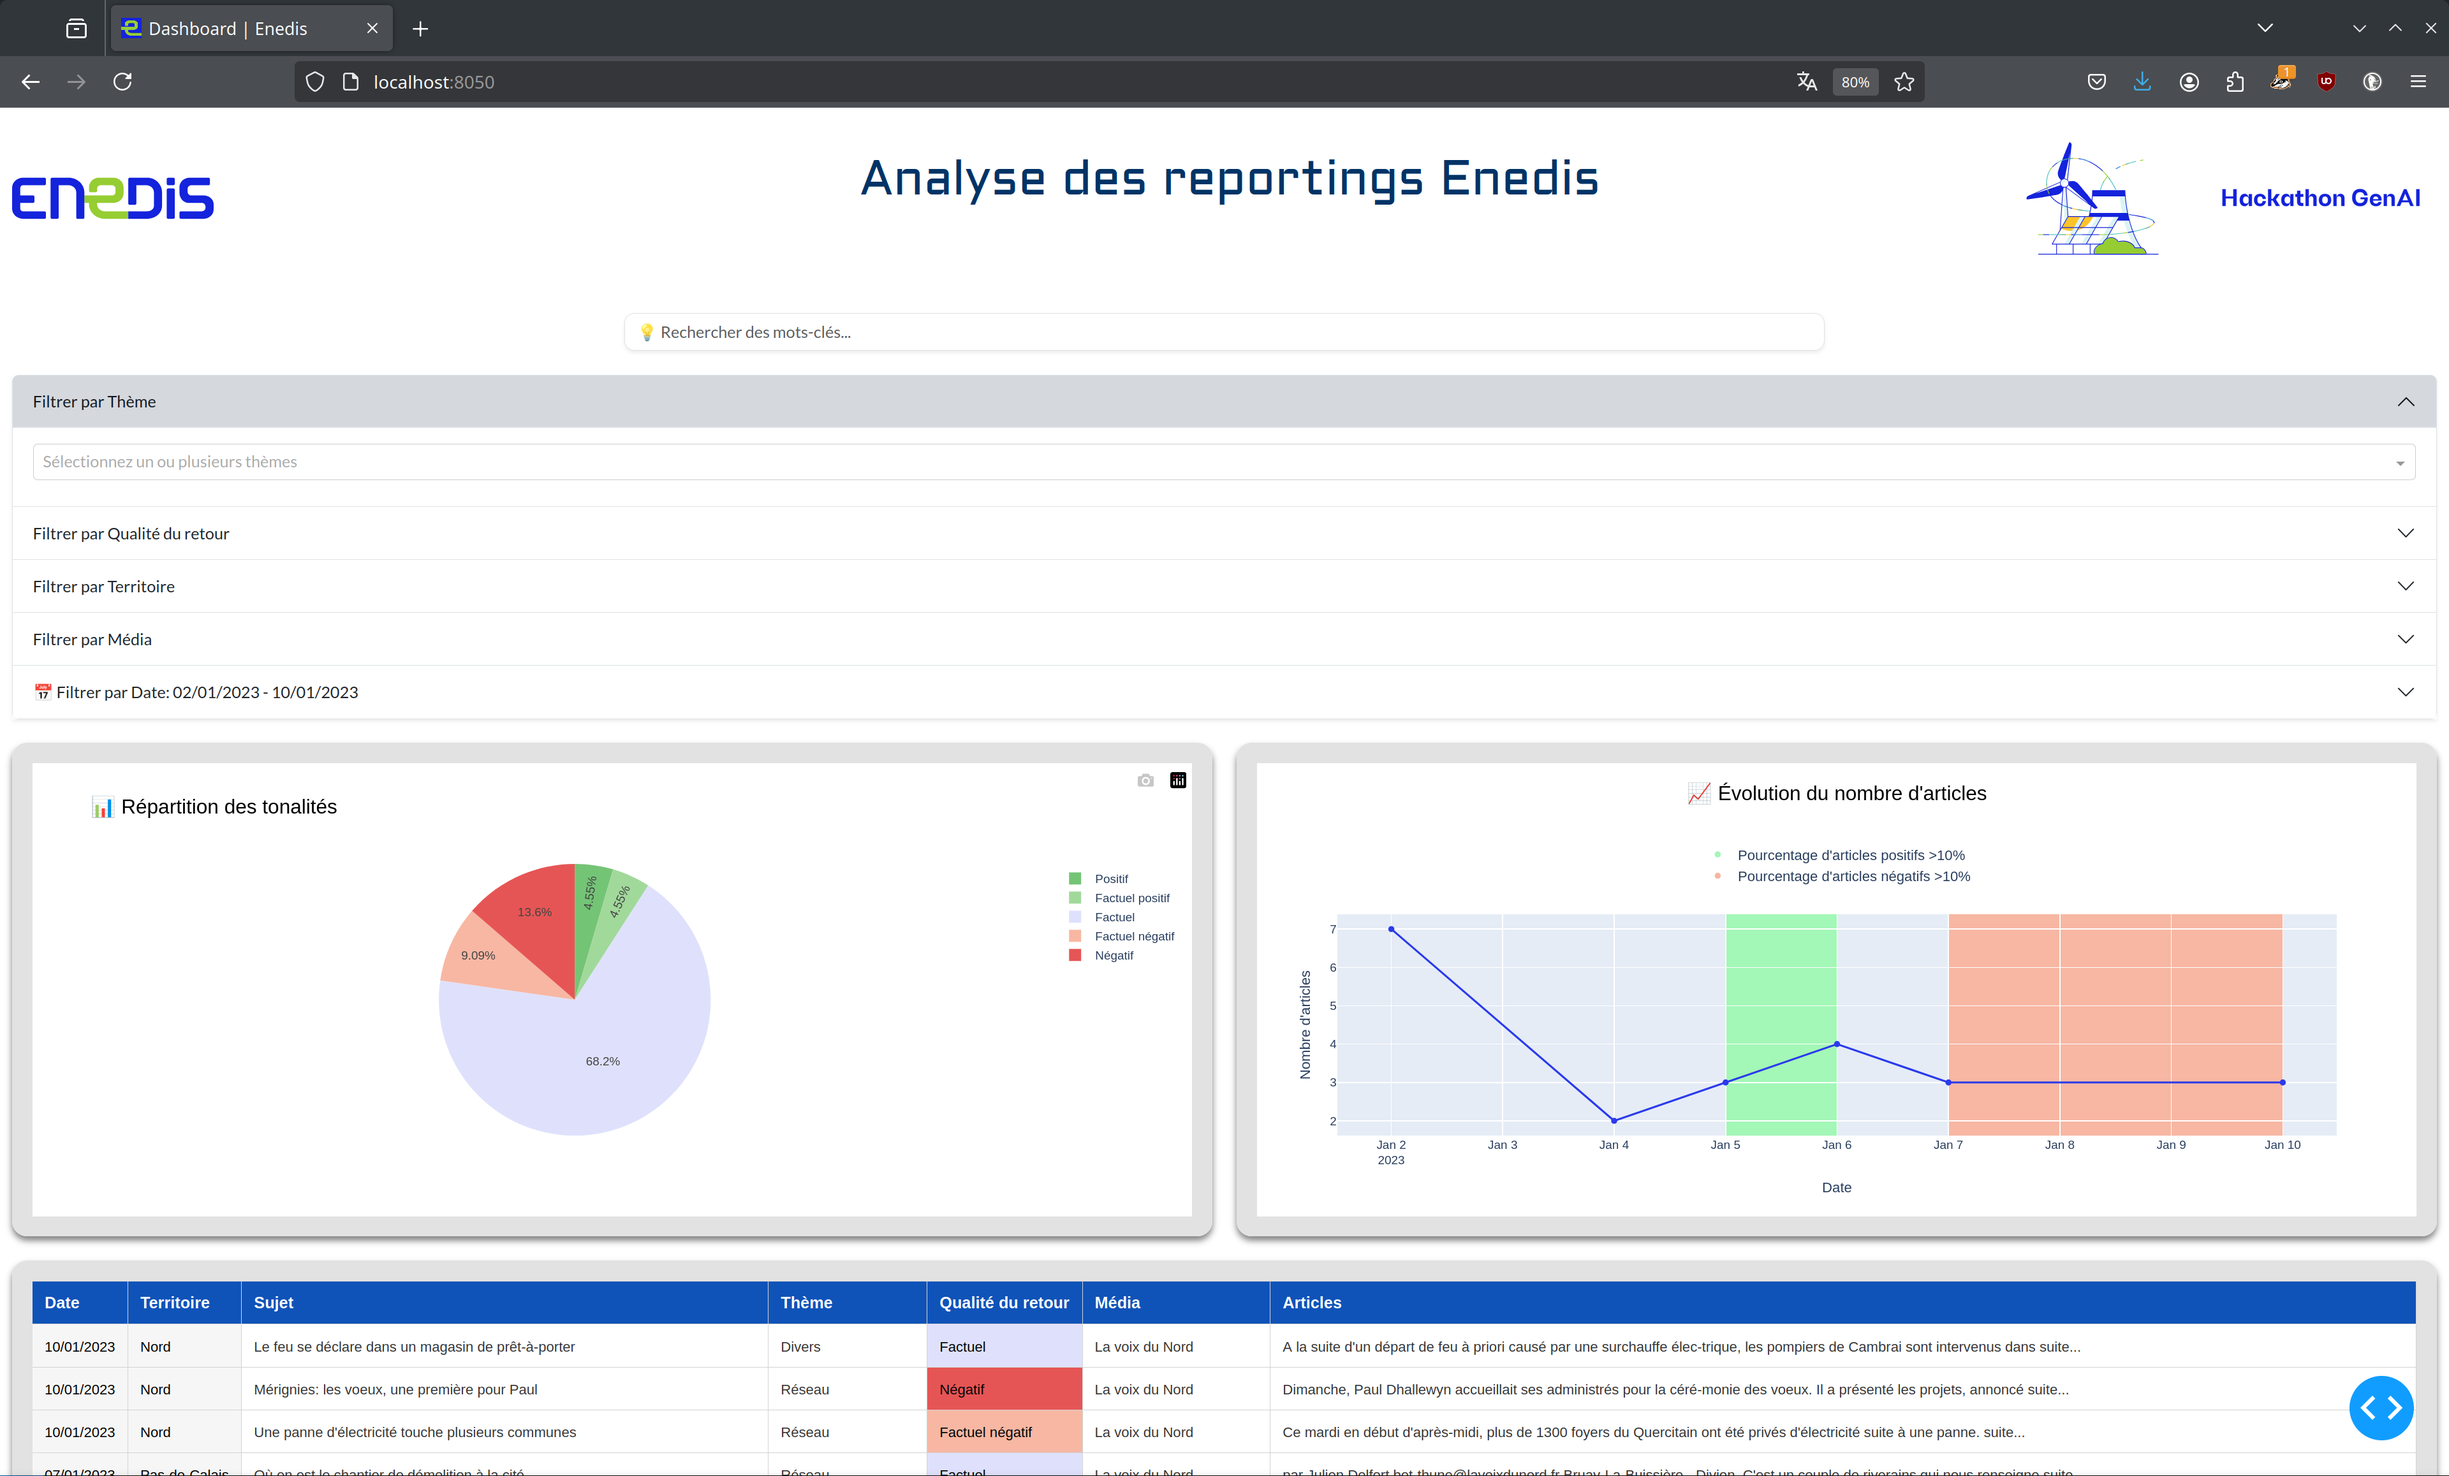
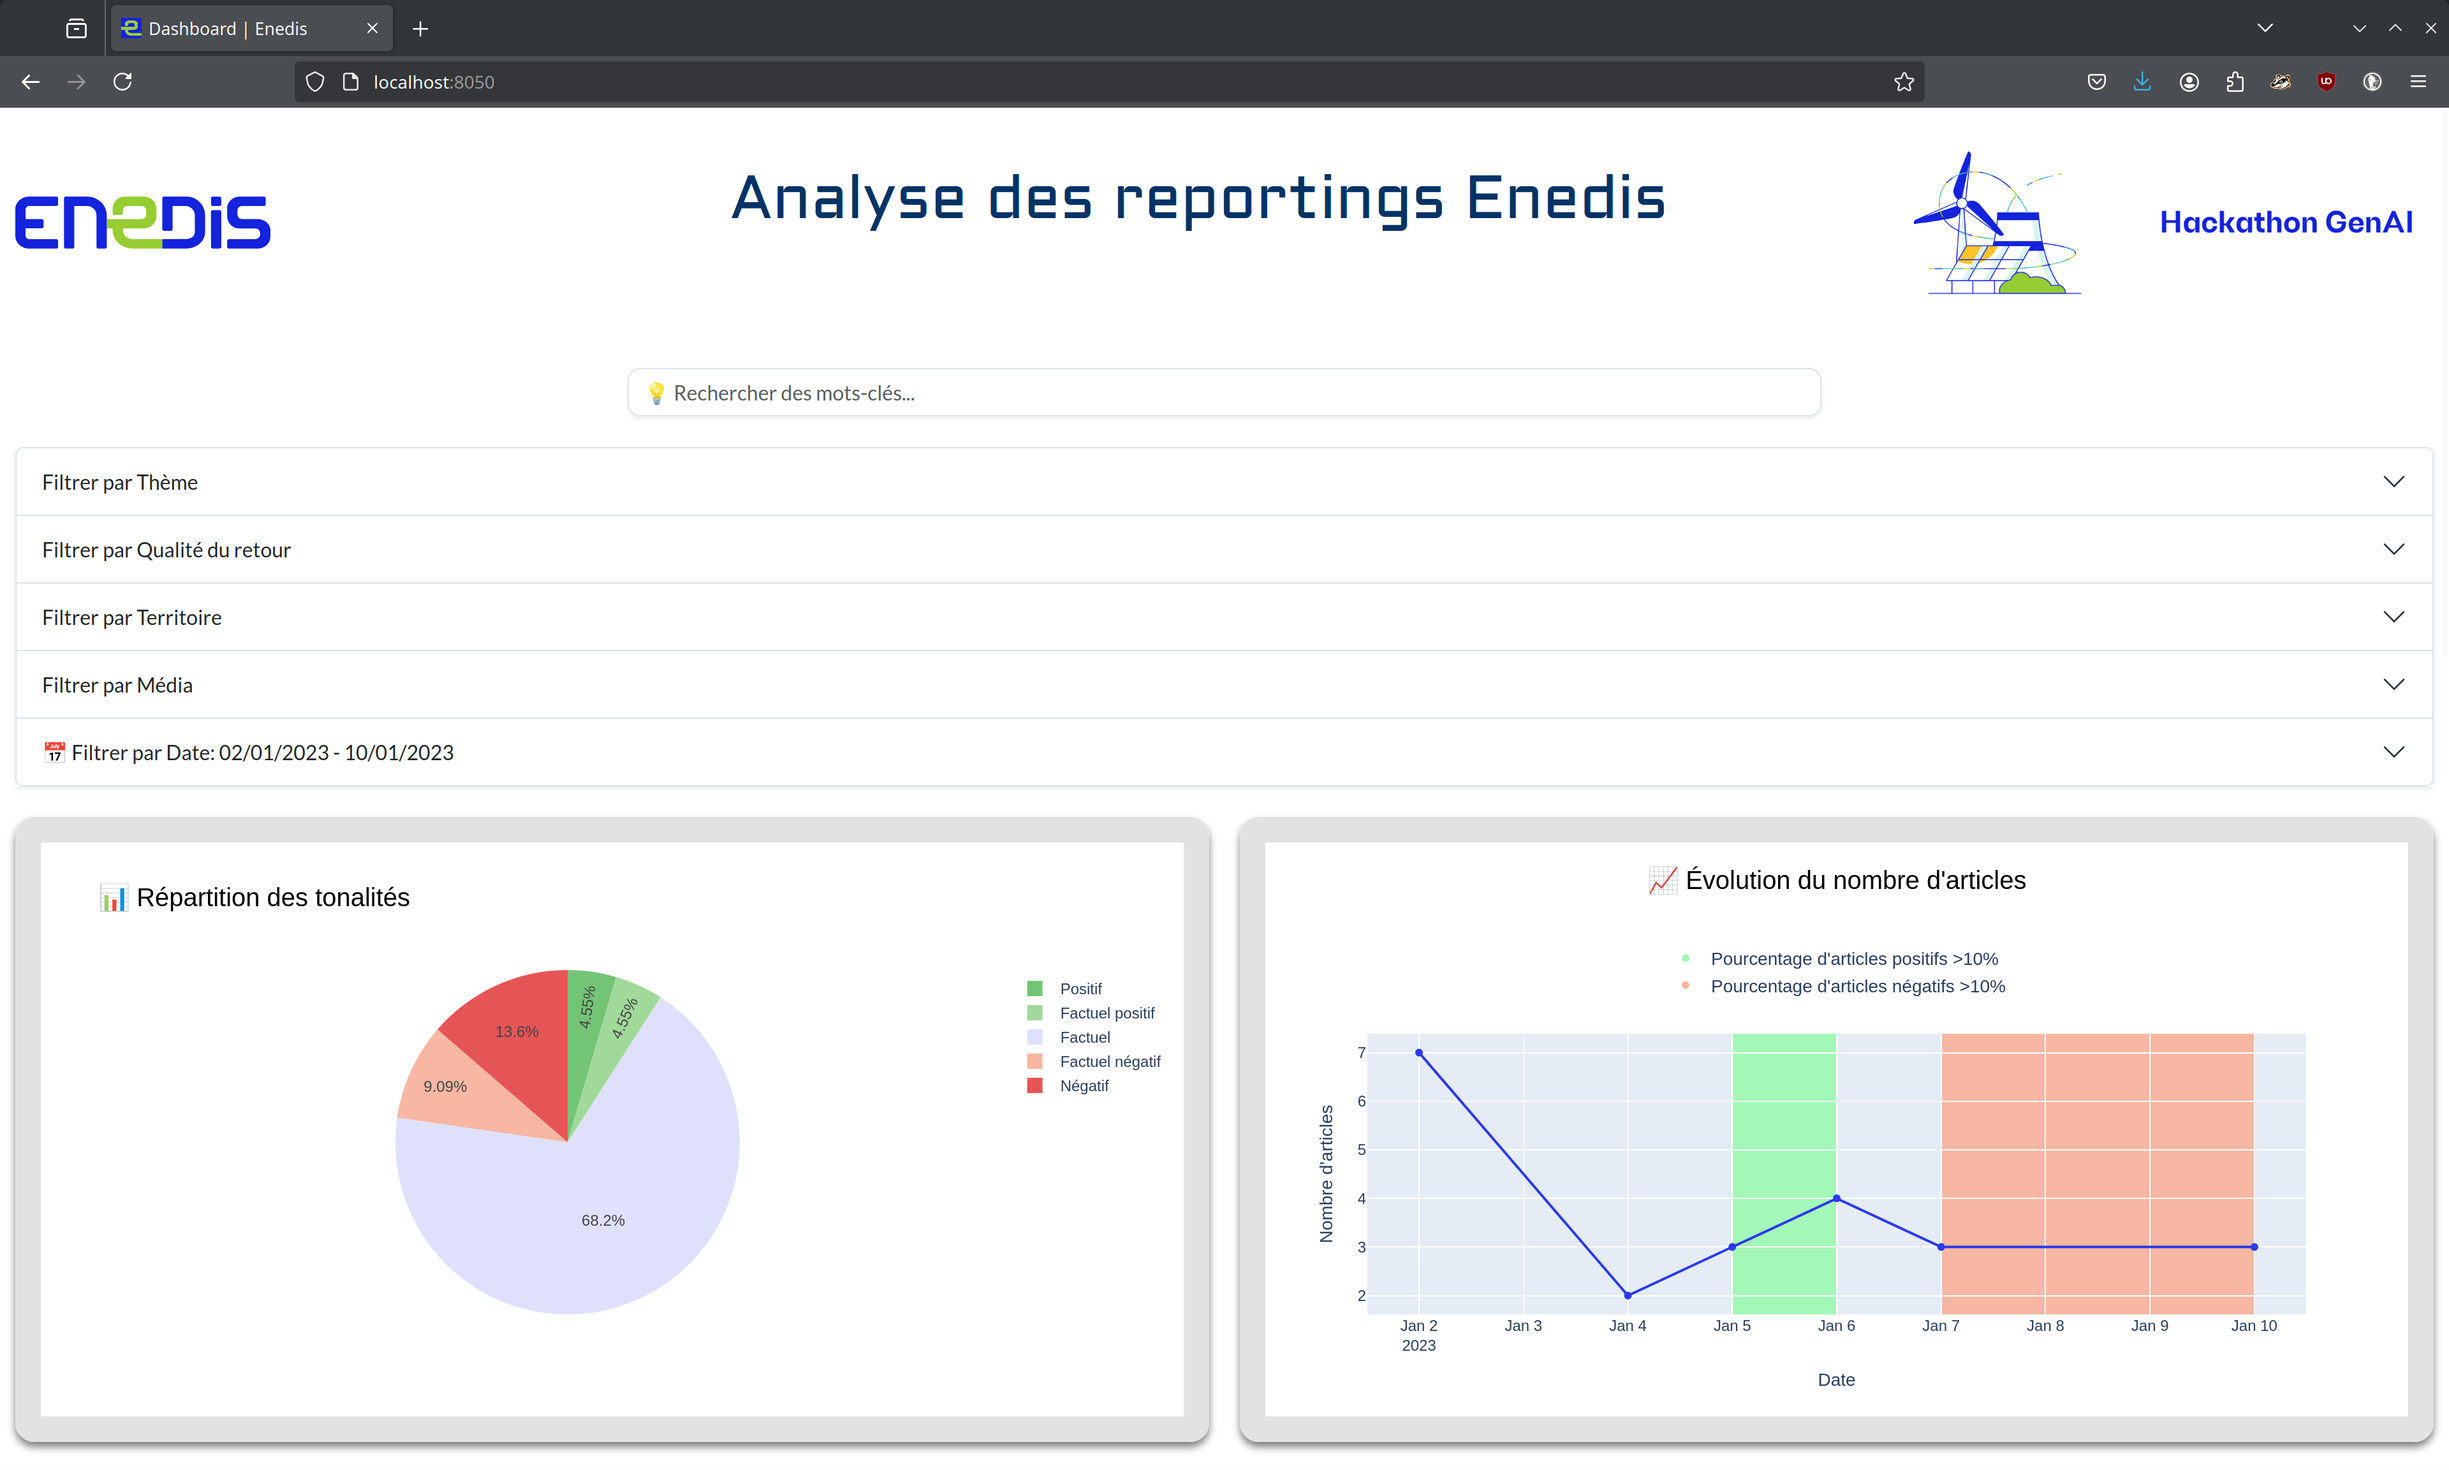
add word cloud graph

diff --git a/data-viz-app/app.py b/data-viz-app/app.py
@@ -7,6 +7,9 @@ from dash.dependencies import Input, Output
 import dash_bootstrap_components as dbc
 from pathlib import Path
 
+import nltk
+from nltk.corpus import stopwords
+
 PROJECT_PATH = Path(__file__).parent.absolute()
 sys.path.append(PROJECT_PATH)
 
@@ -20,9 +23,12 @@ from utils.dash_display import (
     summary_filter,
     create_legend_trace,
     get_timeseries_background_shapes,
+    generate_wordcloud
 )
 import assets.css.styles as myCSS
 
+nltk.download('stopwords')
+FRENCH_STOP_WORDS = set(stopwords.words('french'))
 
 ############################# CONFIG #############################
 
@@ -31,6 +37,9 @@ DASH_APP_PORT = 8050
 
 # highlights periods on the time series when the ratio of positive or negatives articles exceed the threshold
 TIME_SERIES_THRESHOLD = 0.1
+
+# set to True to display the word cloud
+SHOW_WORDCLOUD = True
 
 ##################################################################
 
@@ -56,6 +65,12 @@ dash_app._favicon = ("img/enedis-favicon.ico")
 ## II.a) application Layout ##
 ##############################
 
+# conditional layout for word cloud
+wordcloud_section = dbc.Row([
+    dbc.Col([dcc.Graph(id='word-cloud', style=myCSS.container)], width=6)
+], className='mb-4', justify="center") if SHOW_WORDCLOUD else None
+
+# layout
 dash_app.layout = dbc.Container([
     # Header
     dbc.Row([
@@ -102,20 +117,21 @@ dash_app.layout = dbc.Container([
         dbc.Col(dcc.Graph(id='articles-time-series', style=myCSS.container), width=6)
     ], className='mb-4'),
 
-    html.Div([
-    dash_table.DataTable(
-        id='data-table',
-        columns=[{"name": col, "id": col} for col in df.columns],
-        page_size=myCSS.data_table['page_size'],
-        style_table=myCSS.data_table['style_table'],
-        style_header=myCSS.data_table['style_header'],
-        style_cell=myCSS.data_table['style_cell'],
-        row_selectable=False,
-        cell_selectable=False,
-        style_data_conditional=myCSS.data_table['style_data_conditional'],
-    )
-], style=myCSS.container)
+    wordcloud_section,
 
+    html.Div([
+        dash_table.DataTable(
+            id='data-table',
+            columns=[{"name": col, "id": col} for col in df.columns],
+            page_size=myCSS.data_table['page_size'],
+            style_table=myCSS.data_table['style_table'],
+            style_header=myCSS.data_table['style_header'],
+            style_cell=myCSS.data_table['style_cell'],
+            row_selectable=False,
+            cell_selectable=False,
+            style_data_conditional=myCSS.data_table['style_data_conditional'],
+        )
+    ], style=myCSS.container)
 ], fluid=True)
 
 ############################################
@@ -131,21 +147,24 @@ dash_app.layout = dbc.Container([
         Output('tonalite-title', 'title'),
         Output('territory-title', 'title'),
         Output('media-title', 'title'),
-        Output('date-title', 'title')],
-    [   
+        Output('date-title', 'title'),
+        *([Output('word-cloud', 'figure')] if SHOW_WORDCLOUD else [])
+    ],
+    [
         Input('theme-dropdown', 'value'),
         Input('tonalite-dropdown', 'value'),
         Input('territory-dropdown', 'value'),
         Input('media-dropdown', 'value'),
         Input('date-picker', 'start_date'),
         Input('date-picker', 'end_date'),
-        Input('keywords-search', 'value')]
+        Input('keywords-search', 'value')
+    ]
 )
 def update_visualizations(selected_themes, selected_tonalites, selected_territories, selected_medias, start_date, end_date, keywords):
     
     filtered_df = filter_df(df, (selected_themes, selected_tonalites, selected_territories, selected_medias, start_date, end_date, keywords)).sort_values(by='Date')
 
-    # applied filters summary
+    # filters summary
     theme_summary = summary_filter('Thème', selected_themes)
     tonalite_summary = summary_filter('Qualité du retour', selected_tonalites)
     territory_summary = summary_filter('Territoire', selected_territories)
@@ -208,15 +227,23 @@ def update_visualizations(selected_themes, selected_tonalites, selected_territor
     )
     pie_chart.update_layout(title_font=myCSS.pie_chart['title_font'])
 
-    # table
+    # word cloud
+    if SHOW_WORDCLOUD:
+        text = ' '.join(filtered_df['Sujet'].dropna().tolist() + filtered_df['Articles'].dropna().tolist())
+        wordcloud = generate_wordcloud(text, style=myCSS.wordcloud, stopwords=FRENCH_STOP_WORDS)
+
+    # Table data
     formated_date_df = filtered_df.reset_index().sort_values(by='Date', ascending=False)
     formated_date_df['Date'] = formated_date_df['Date'].dt.strftime('%d/%m/%Y')
-    table_data = (formated_date_df.to_dict('records'))
+    table_data = formated_date_df.to_dict('records')
 
-    return pie_chart, time_series, table_data, theme_summary, tonalite_summary, territory_summary, media_summary, date_summary
+    if SHOW_WORDCLOUD:
+        return pie_chart, time_series, table_data, theme_summary, tonalite_summary, territory_summary, media_summary, date_summary, wordcloud
+    else:
+        return pie_chart, time_series, table_data, theme_summary, tonalite_summary, territory_summary, media_summary, date_summary
 
 ###################
 ## II.c) run app ##
 ###################
 if __name__ == '__main__':
-    dash_app.run(debug=True, host=DASH_APP_URL, port=DASH_APP_PORT)
+    dash_app.run(debug=False, host=DASH_APP_URL, port=DASH_APP_PORT)

diff --git a/data-viz-app/utils/dash_display.py b/data-viz-app/utils/dash_display.py
@@ -5,6 +5,9 @@ import plotly.express as px
 from dash import dcc
 import dash_bootstrap_components as dbc
 
+from wordcloud import WordCloud
+import plotly.graph_objects as go
+
 
 def create_accordion_item(df, title, id, multi=True, style=None, ordered_values=None):
     options = df[title].unique()
@@ -134,3 +137,34 @@ def get_timeseries_background_shapes(df, values_categories, window='2D', thresho
             shapes.extend([create_rectangle_shape(start, end, color) for start, end in intervals])
             
     return shapes
+
+
+def generate_wordcloud(text, style, stopwords):
+    # create word cloud
+    wordcloud = WordCloud(
+        width=style['width'], 
+        height=style['height'], 
+        background_color=style['backgroundColor'],
+        stopwords=stopwords,
+        max_words=100,
+        prefer_horizontal=0.9,
+    ).generate(text)
+
+    # convert word cloud to np.array
+    wordcloud_array = wordcloud.to_array()
+
+    # transform it into a plotly figure
+    fig = go.Figure()
+
+    fig.add_trace(go.Image(z=wordcloud_array, hoverinfo='skip'))
+
+    fig.update_layout(
+        title=style['title'],
+        xaxis=dict(visible=False, scaleanchor='y'),
+        yaxis=dict(visible=False, scaleanchor='x'),
+        margin=dict(l=0, r=0, t=40, b=0), 
+        paper_bgcolor='white',
+        plot_bgcolor='rgba(0,0,0,0)',
+    )
+
+    return fig

diff --git a/data-viz-app/assets/css/styles.py b/data-viz-app/assets/css/styles.py
@@ -80,6 +80,22 @@ time_series = {
     }
 }
 
+wordcloud = {
+    'title': {
+        'text': '☁ Nuage de mots',
+        'font': {
+            'family': 'Arial',
+            'size': 20,
+            'color': 'black',
+        },
+        'x': 0.5,
+        'pad': {'t': 20},
+    },
+    'width': 1000,
+    'height': 500,
+    'backgroundColor': 'white',
+}
+
 data_table = {
     'page_size': 20,
 

diff --git a/data-viz-app/README.md b/data-viz-app/README.md
@@ -7,7 +7,7 @@ This project provides an interactive web-based dashboard to analyze Enedis repor
 ## Features
 - Keyword search functionality
 - Filtering options by theme, territory, media, and date range
-- Interactive visualizations, including pie charts and time-series graphs
+- Interactive visualizations, including pie charts, time-series and word cloud graphs
 - Tabular data display with pagination
 
 ## Prerequisites
